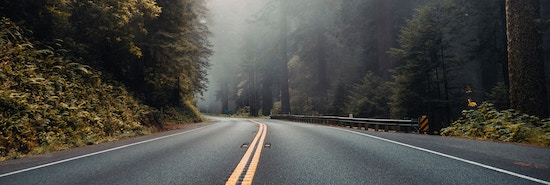
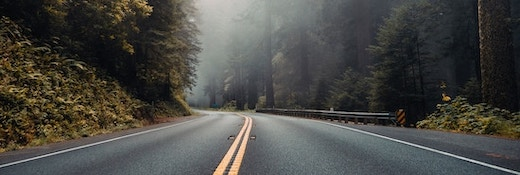
Task #5. About work bonus.
- Пост о бонусах в компаниях.
- Поправил стиль картинки (убрал ограничение по высоте).
- Уменьшил существующие картинки до 520px по ширине.

diff --git a/style.scss b/style.scss
@@ -16,8 +16,6 @@ main > .container {
 }
 
 .preview-image {
-  height: 150px;
-  overflow: hidden;
   margin-bottom: 10px;
 }
 .preview-image img {

diff --git a/_posts/2023-7-8-3-bonusi-v-companiayh.md b/_posts/2023-7-8-3-bonusi-v-companiayh.md
@@ -1,0 +1,16 @@
+---
+layout: post
+title: "Бонусы в компаниях"
+preview_image: 3-knowledge.jpg
+published_at: "8 июля 2023 г."
+---
+
+Работая в разных компаниях я понял, что периодически полезно читать новости (если есть рассылка либо внутренний портал), исследовать внутренние ресурсы для понимания какие есть те или иные возможности, активности. Приведу пару примеров из жизни. 
+
+Работая в одной из компаний, я нашел информацию, что можно пройти курсы по react. Среди нас был коллега с опытом на react'e и мы хотели постепенно его внедрить. У нас сильно наболело работая со сложным UI, написанного на jquery и мы хотели упростить взаимодействие с ним. То, что у нас не получилось, по организационным моментам, внедрить эти знания - другая история.
+
+Другой пример. Работая уже в другой компании, я нашел информацию, что можно выбрать коуча для решения своих карьерных вопросов. При этом коучи были внутренними сотрудниками компании. Среди них были разные люди, вплоть и до руководителей крупных департаментов. У меня было небольшое недопонимание, как лучше проводить встречи и корректно обозначать свою позицию. Так же был вопрос куда двигаться дальше. Я получил прекрасный опыт, который мне очень помог. Коуч помог мне увидеть свои сильные и слабые стороны, составить цели. 
+
+Стоит отметить, что так же в некоторых компаниях был доступ к разным онлайн-библиотекам книг, курсам. 
+
+Так что, если есть возможность и интерес, периодически посматривайте что появилось новое. 
